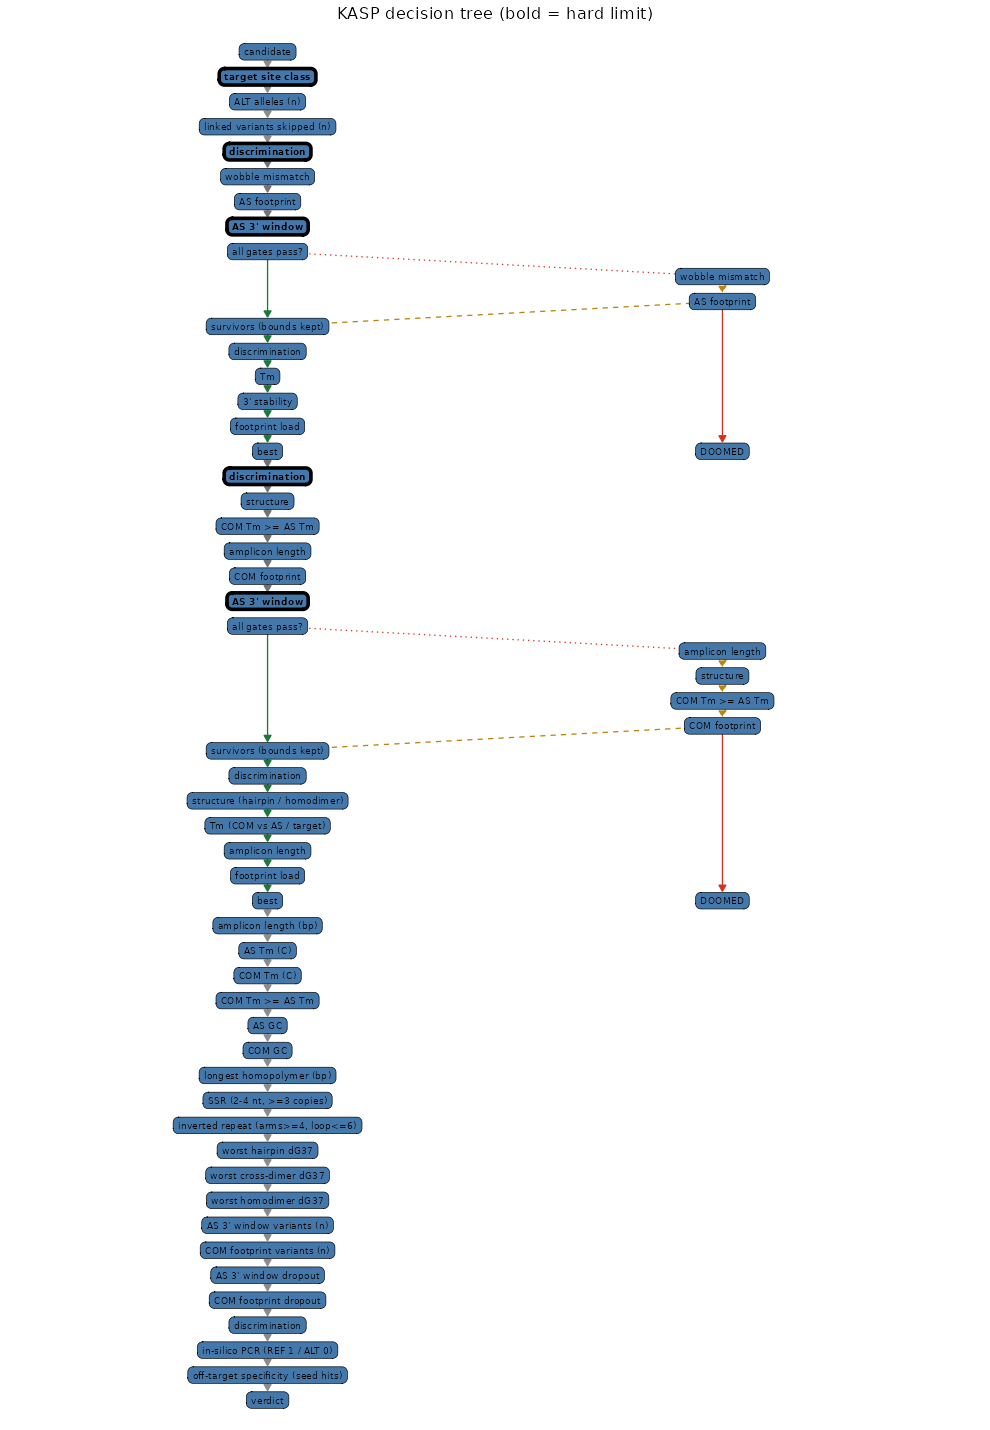
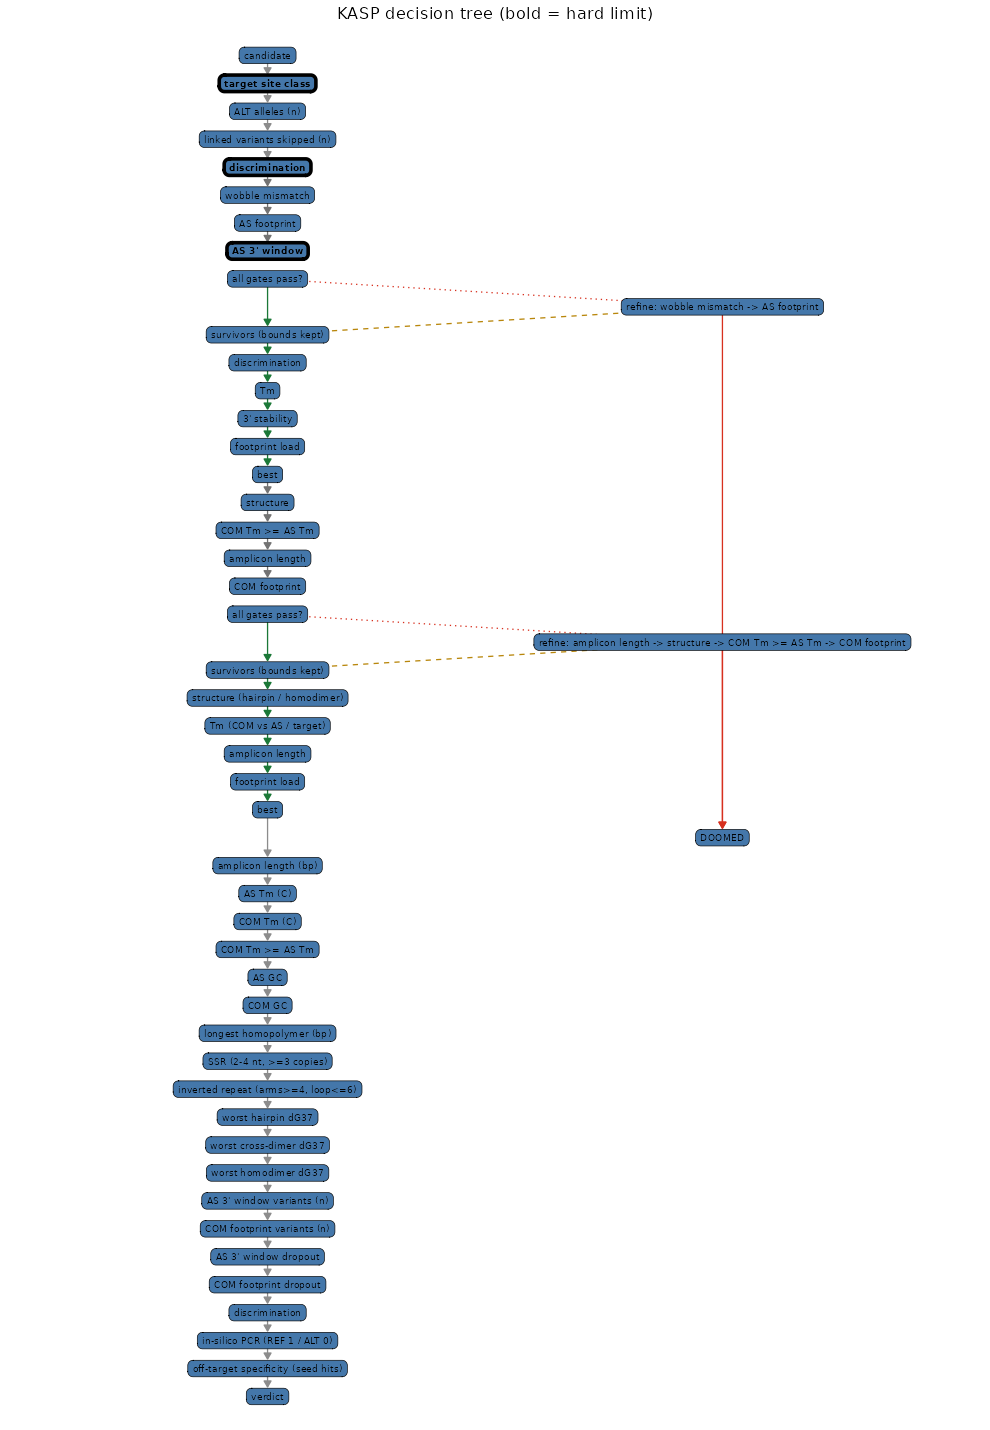
decision: drop vacuous pair gates, one shared DOOMED; confirm genome-only off-targets
The pair stage re-gated discrimination and the AS 3' window, but those are fixed
by the AS placement (constant across COM pairs), so re-gating them was vacuous and
the 'discrimination' tier never discriminated.  They now live only in the AS
stage; the pair gates/ tiers are structure, Tm, amplicon, footprint.  The DOOMED
terminal is shared across stages (not one per stage).  Tree: 57 -> 49 nodes.

Specificity was already genome-based; added a guard test that a variant position
(one reference locus) is not a phantom repeat, while a genome duplication adds a
hit, and that specificity_seed() takes no variant table.

diff --git a/NEWS.md b/NEWS.md
@@ -63,9 +63,15 @@
   off-target, in-silico PCR, site), а не только гейты; жёсткие лимиты — **жирной рамкой**.
 - **Релаксация с границами:** мягкий гейт опускается только до лучшего достижимого
   значения и не ниже floor; жёсткие (дискриминация, вариант в AS 3'-окне) — не опускаются
-  вовсе; при провале — явный `DOOMED`. Сцепленный вариант в AS 3'-окне не считается
-  нарушением. `assay$decision` (граф) и `assay$evaluation` (результаты проверок) — в объекте,
-  без пересчёта при отрисовке.
+  вовсе; при провале — явный `DOOMED` (один на всё дерево). Сцепленный вариант в AS 3'-окне
+  не считается нарушением. `assay$decision` (граф) и `assay$evaluation` (результаты проверок) —
+  в объекте, без пересчёта при отрисовке.
+- **Меньше дублей в дереве:** пара гейтов, которые пара-стадия лишь повторяла за AS
+  (дискриминация и AS 3'-окно — они там константы), убраны; лестница релаксации — один узел
+  на стадию (а не узел на ступень); один общий `DOOMED`. 49 узлов вместо 57.
+- **Off-target только по геному:** специфичность считается по референсной
+  последовательности (не по списку ALT-аллелей), так что фича с несколькими вариантами
+  — один локус, а не повтор; закреплено тестом.
 - `kasp_design_checks()` получил уровень **site**: `target site class`, `ALT alleles (n)`,
   `linked variants skipped (n)` — вырожденные/мультиаллельные сайты и несшитые indel'ы
   видны в тумблерах; `plot_checks()` фасетит site/feature/alignment; в объекте — `assay$site`.
